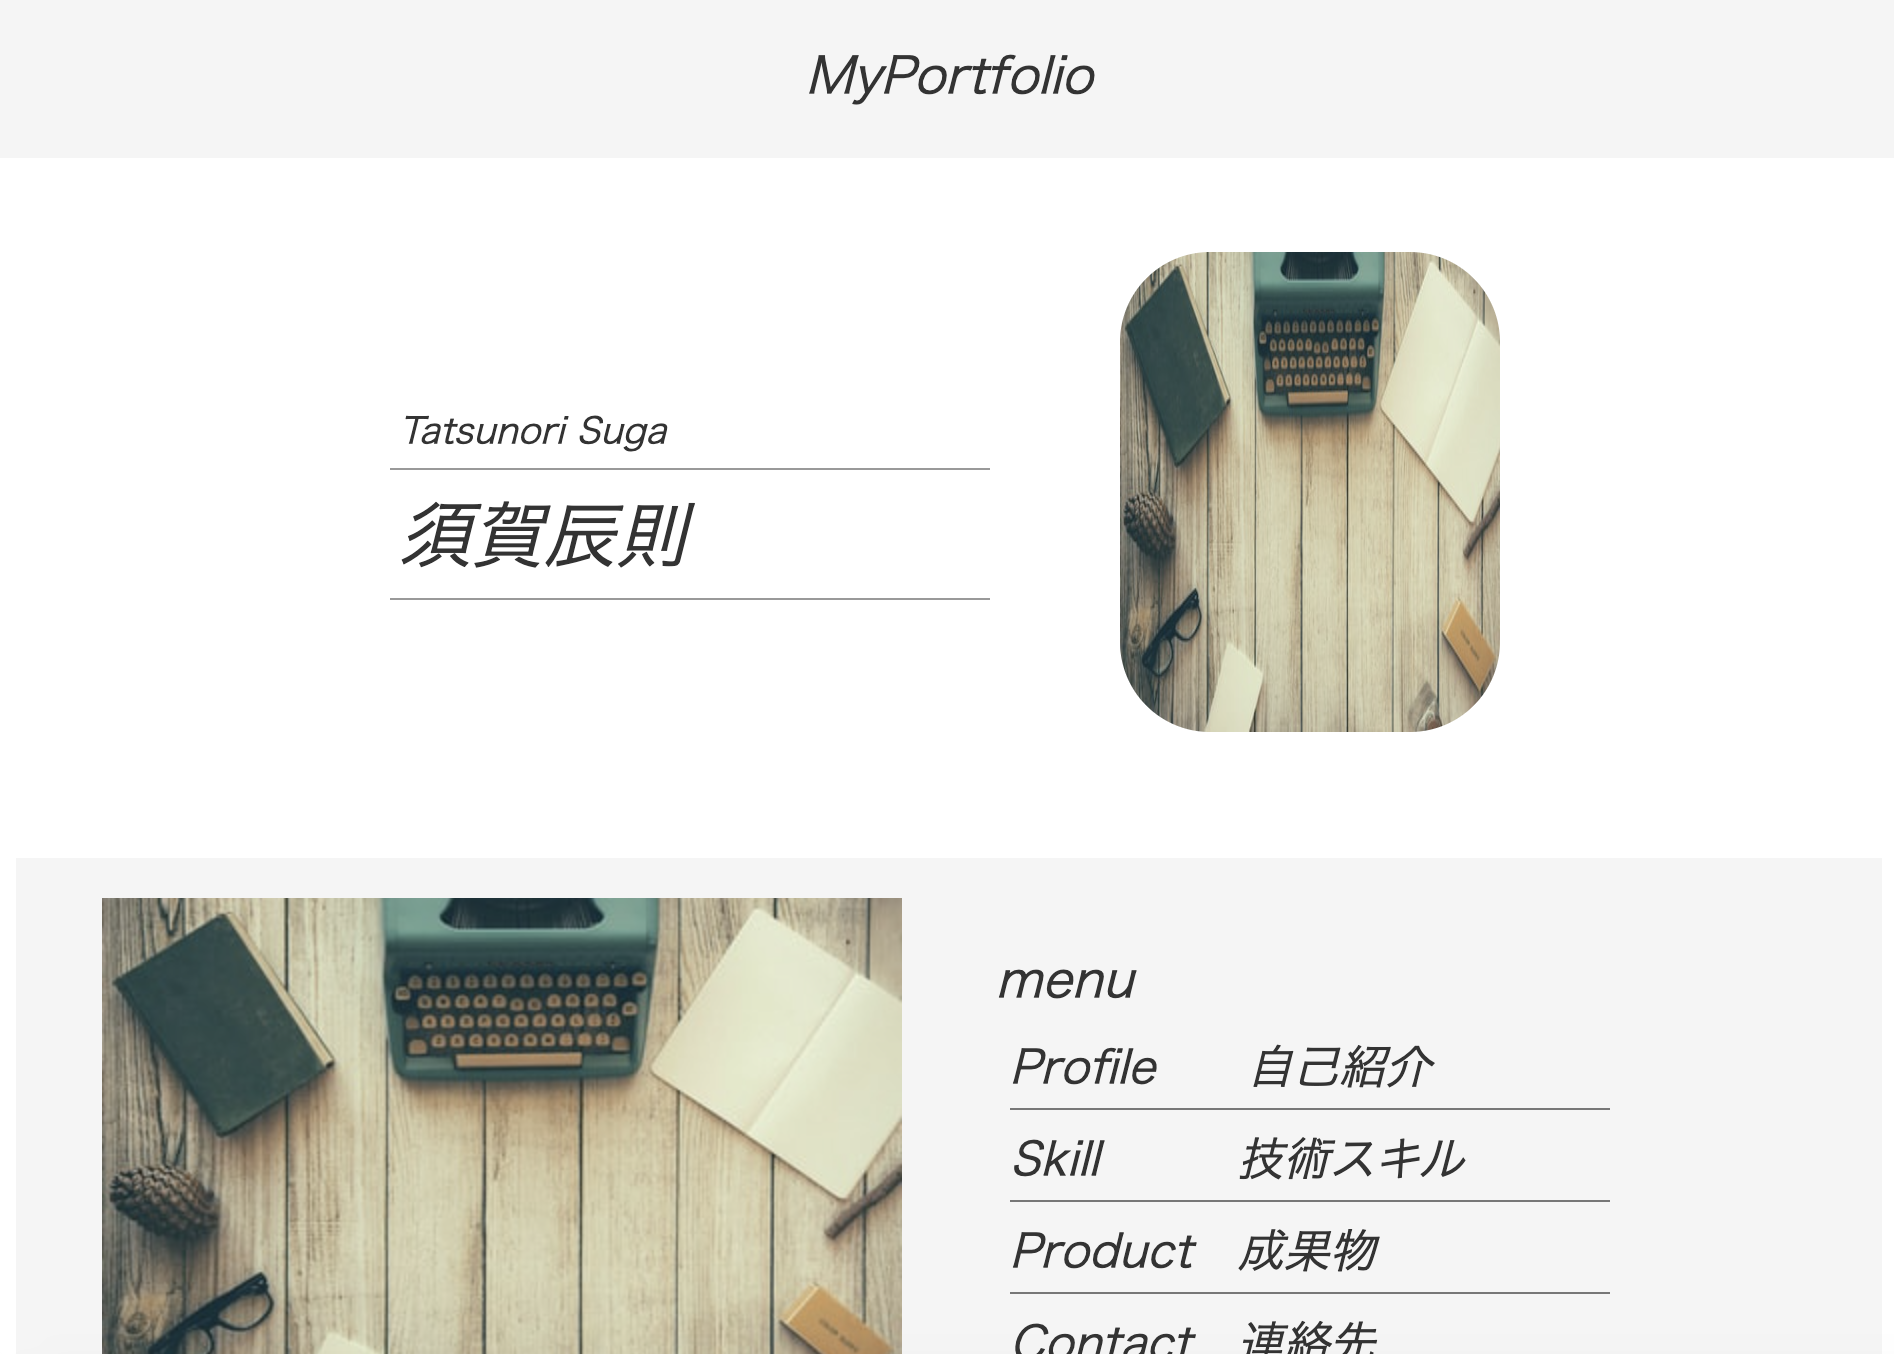
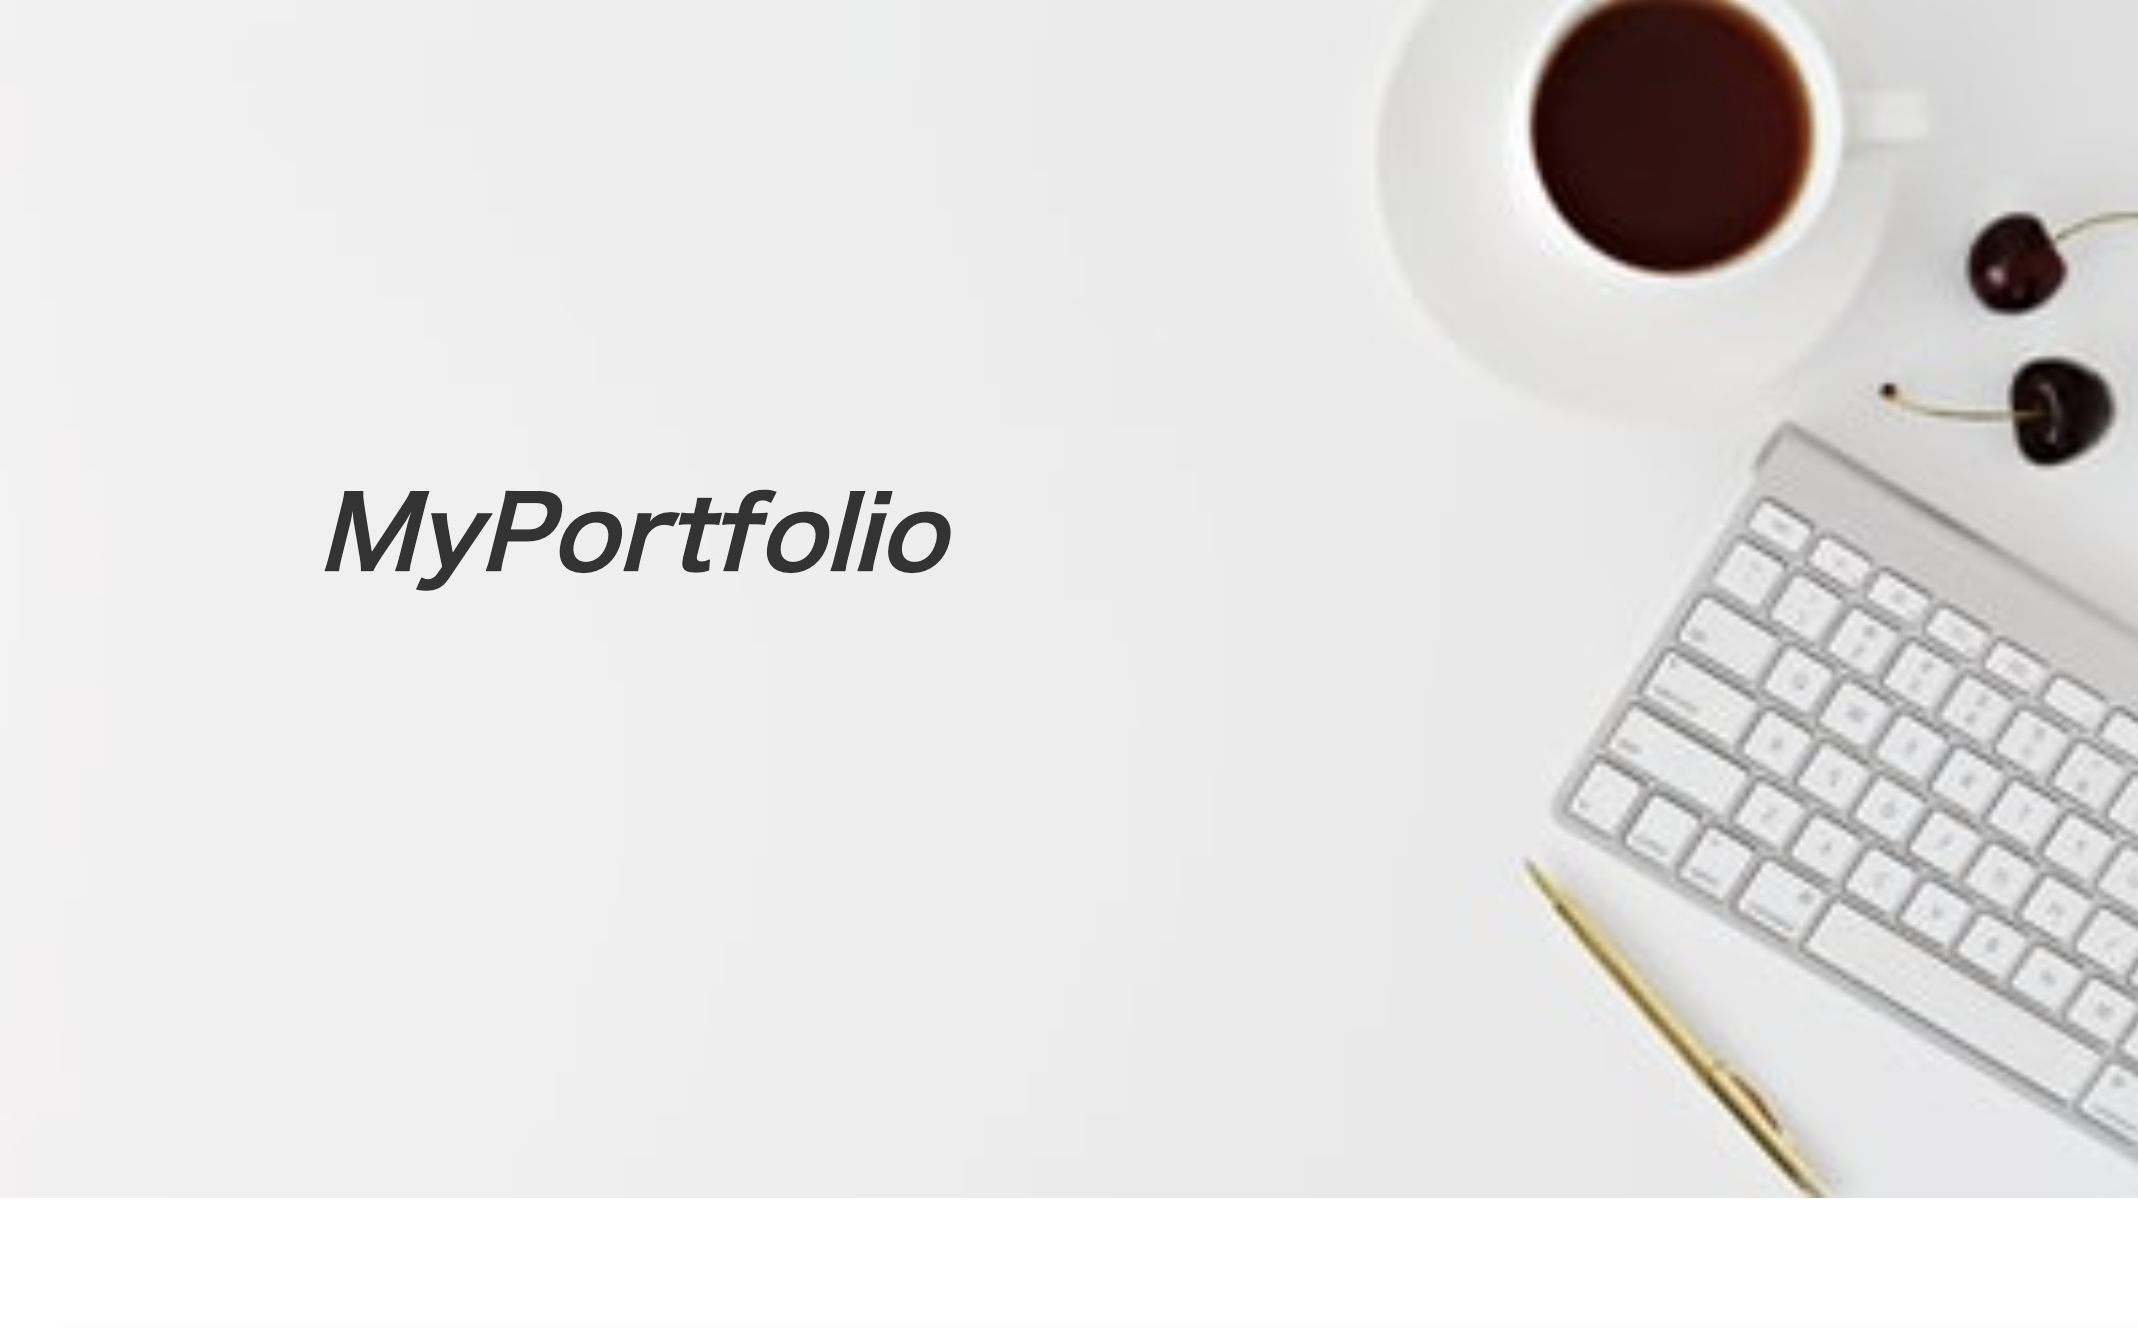
追記

diff --git a/stylesheet/index.css b/stylesheet/index.css
@@ -11,29 +11,11 @@ body {
 
 body,
 div,
-dl,
-dt,
-dd,
 ul,
-ol,
 li,
 h1,
 h2,
-h3,
-h4,
-h5,
-h6,
-pre,
-code,
-form,
-fieldset,
-legend,
-input,
-textarea,
-p,
-blockquote,
-th,
-td {
+p{
   margin:0;
   padding:0;
 }
@@ -48,22 +30,24 @@ a {
 
 /* ヘッダー部分 */
 header {
-  height: 80px;
-  background:whitesmoke;
+  height: 600px;
+  width: 100%;
+  background-image: url(../img/p-image4.jpg);
+  background-size: cover;
 }
 
 .my-portfolio {
-  text-align: center;
-  font-size: 25px;
+  font-size: 50px;
+  font-weight: bold;
   font-style: oblique;
-  padding: 20px;
+  padding: 230px 0 0 15vw;
 }
 /* ヘッダー部分 */
 
 /* メイン部分 */
 /* 導入 */
 .name-content {
-  height: 50vh;
+  height: 400px;
   display: flex;
   justify-content: center;
   align-items: center;
@@ -89,55 +73,23 @@ header {
 .name-image {
   padding: 5px;
   margin: 0 30px;
-  border-radius: 50px;
+  border-radius: 100px;
   margin: 0 30px;
 }
 /* 導入 */
 
-/* メニュー部分 */
-.menu-content {
-  display: flex;
-  justify-content: space-around;
-  align-items: center;
-  padding: 20px;
-  margin: 10px;
-  background: whitesmoke;
-}
-
-.menu-lists > ul {
-  font-size: 25px;
-  font-style: oblique;
-  width: 400px;
-}
-
-.menu-lists > ul > li {
-  width: 300px;
-  font-size: 23px;
-  font-style: oblique;
-  padding-bottom: 3px;
-  border-bottom: 1px solid #777;
-  margin: 7px;
-}
-/* メニュー部分 */
-
 /* 自己紹介部分 */
 .introduction-title {
-  font-size: 25px;
+  font-size: 30px;
   font-style: oblique;
   padding: 5px;
-  border-bottom: 1px solid #777;
-  margin: auto;
+  margin: 40px auto;
   width: 150px;
 }
 
-.introduction-contents {
-  display: flex;
-  align-items: center;
-  justify-content: space-around;
-}
-
 .introduction-text {
-  width: 60%;
+  font-size: 16px;
+  width: 70%;
   margin: 30px auto;
 }
 /* 自己紹介部分 */
@@ -145,9 +97,9 @@ header {
 /* 技術スキル部分 */
 .skill-content-title {
   text-align: center;
-  font-size: 20px;
+  font-size: 30px;
   font-style: oblique;
-  margin: 20px;
+  margin: 50px 20px;
 }
 
 .skill-content {
@@ -176,9 +128,9 @@ header {
 /* 成果物部分 */
 .portfolio-content-title {
   text-align: center;
-  font-size: 20px;
+  font-size: 30px;
   font-style: oblique;
-  margin: 15px;
+  margin: 50px 15px;
 }
 
 .portfolio-content {
@@ -190,8 +142,7 @@ header {
 .portfolio {
   display: flex;
   align-items: center;
-  /* justify-content: space-between; */
-  margin: 10px;
+  margin: 15px;
   background: rgb(240, 239, 239);
 }
 
@@ -226,7 +177,7 @@ header {
 .access-content-row {
   padding: 90px 0;
   text-align: center;
-  font-size: 20px;
+  font-size: 30px;
   font-style: oblique;
 }
 
@@ -298,10 +249,31 @@ footer > p {
 /* フッター部分 */
 
 @media (max-width: 1024px) {
-
+  .name-image {
+    width: 210px;
+    height: 210px;
+    margin: 0 10px;
+  }
 }
 
 @media (max-width: 599px) {
+  /* ヘッダー部分 */
+  header {
+    height: 300px;
+    width: 100%;
+    background-image: url(../img/p-image4.jpg);
+    background-size: cover;
+  }
+
+  .my-portfolio {
+    font-size: 30px;
+    font-weight: bold;
+    font-style: oblique;
+    text-align: center;
+    padding: 130px 0;
+  }
+  /* ヘッダー部分 */
+
   /* 導入 */
   .en-name {
     width: 100px;
@@ -313,32 +285,12 @@ footer > p {
   }
 
   .name-image {
-    width: 150px;
+    width: 175px;
     height: 175px;
     margin: 0 20px;
   }
   /* 導入 */
-  /* メニュー部分 */
-  .menu-lists > ul {
-    font-size: 12px;
-    font-style: oblique;
-    width: 100%;
-  }
-  
-  .menu-lists > ul > li {
-    width: 200px;
-    font-size: 14px;
-    font-style: oblique;
-    padding-bottom: 3px;
-    border-bottom: 1px solid #777;
-    margin: 7px;
-  }
-  
-  .top-image {
-    width: 100%;
-  }
-  /* メニュー部分 */
-
+ 
   /* 自己紹介部分 */
  
   /* 自己紹介部分 */

diff --git a/index.html b/index.html
@@ -23,29 +23,11 @@
             <div class="ja-name">須賀辰則</div>
           </div>
           <div>
-            <img src="img/p-image8.jpeg" alt="my-image" width="250px" height="230px" class="name-image">
+            <img src="img/p-image8.jpeg" alt="my-image" width="250px" height="250px" class="name-image">
           </div>
         </div>
       </section>
       <!-- 導入 -->
-
-      <!-- メニュー部分 -->
-      <section>
-        <div class="menu-content">
-          <div>
-            <img src="img/p-image2.jpg" alt="top-image" class="top-image">
-          </div>
-          <div class="menu-lists">
-            <ul>menu
-              <li><a href="#introduction-content">Profile　　自己紹介</a></li>
-              <li><a href="#skill-content">Skill　　　技術スキル</a></li>
-              <li><a href="#portfolio-content">Product　成果物</a></li>
-              <li><a href="#access-content">Contact　連絡先</a></li>
-            </ul>
-          </div>
-        </div>
-      </section>
-      <!-- メニュー部分 -->
 
       <!-- 自己紹介部分 -->
       <section id="introduction-content">
